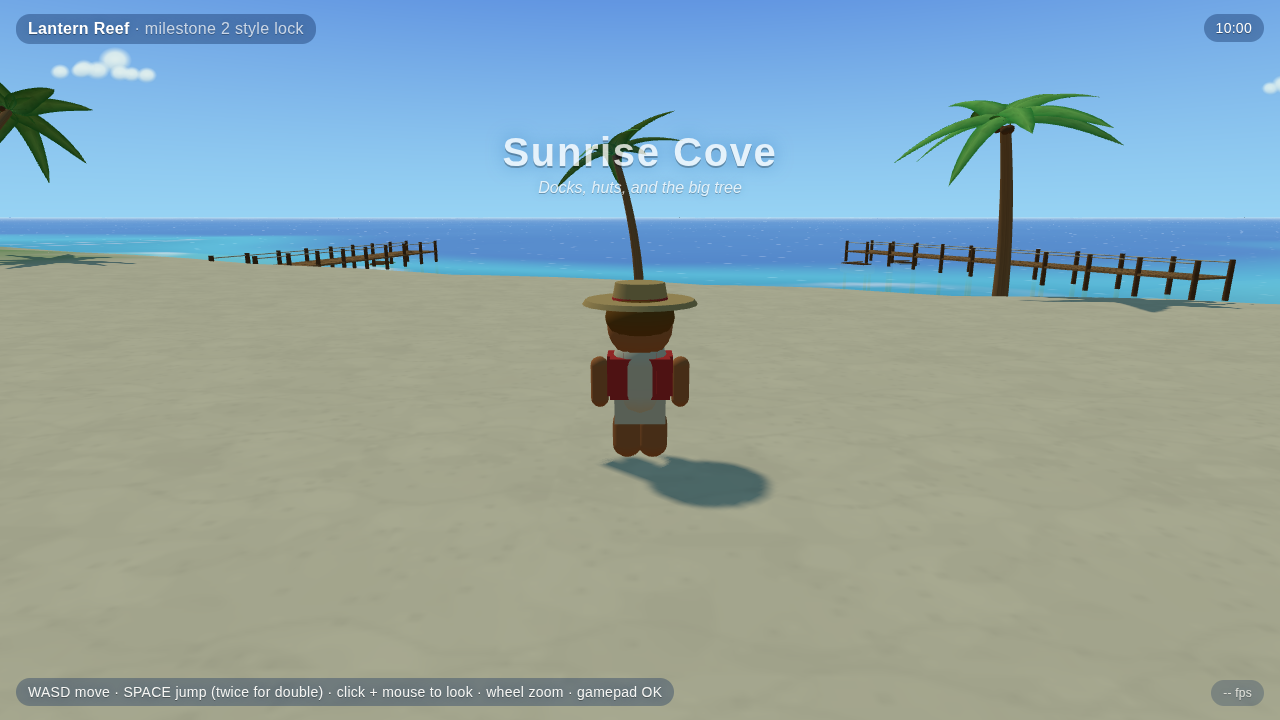
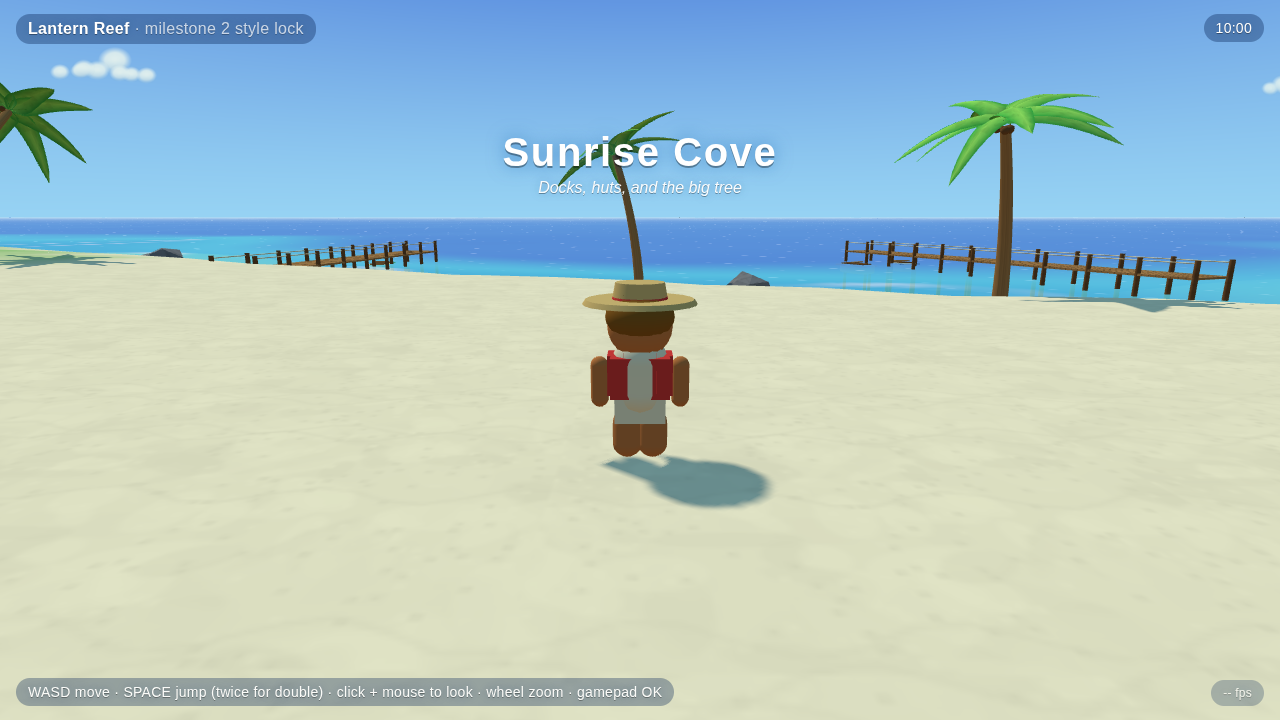
More greenery and more vibrant color
Roughly double the light intensities so palette colors render at full
strength under physically based Lambert shading; deepen the greens and
blues in the palette. Add broadleaf trees on the hills, ferns, flower
patches, vines and leafy clumps on the cliff walls, and denser bushes,
grass tufts, and beach palms.

Claude-Session: https://claude.ai/code/session_01XskDzmhmviZLfBzeCtNsU2

diff --git a/src/world/scatter.js b/src/world/scatter.js
@@ -22,7 +22,7 @@ LR.Scatter = class Scatter {
     };
 
     // Grass tufts: instanced cross-quads.
-    const tufts = sample(2000, (x, y, z, n) => y > 2.7 && n.y > 0.72 && !inZone(x, z, 'town'));
+    const tufts = sample(4500, (x, y, z, n) => y > 2.7 && n.y > 0.72 && !inZone(x, z, 'town'));
     const quad = new THREE.PlaneGeometry(1.2, 0.9); quad.translate(0, 0.42, 0);
     const cross = LR.Geo.merge([{ geometry: quad }, { geometry: quad, rotation: new THREE.Euler(0, Math.PI / 2, 0) }]);
     const tuftMat = new THREE.MeshLambertMaterial({ map: LR.Textures.tuft(), transparent: true, alphaTest: 0.45, side: THREE.DoubleSide });
@@ -37,9 +37,9 @@ LR.Scatter = class Scatter {
     this.group.add(inst);
 
     // Bushes.
-    const bushes = sample(90, (x, y, z, n) => y > 2.8 && n.y > 0.8 && !inZone(x, z, 'town'));
-    const bushPieces = bushes.map((b, i) => ({ geometry: LR.Props.bush(0.9 + rnd() * 1.3, 900 + i), position: new THREE.Vector3(b.x, b.y - 0.2, b.z),
-      color: new THREE.Color(P.grassLight).lerp(new THREE.Color(P.frondDark), rnd() * 0.7) }));
+    const bushes = sample(260, (x, y, z, n) => y > 2.6 && n.y > 0.78 && !inZone(x, z, 'town'));
+    const bushPieces = bushes.map((b, i) => ({ geometry: LR.Props.bush(0.9 + rnd() * 1.6, 900 + i), position: new THREE.Vector3(b.x, b.y - 0.2, b.z),
+      color: new THREE.Color(P.leafBroad).lerp(new THREE.Color(rnd() < 0.5 ? P.frondLight : P.grassDark), rnd() * 0.6) }));
     const bushMesh = new THREE.Mesh(LR.Geo.merge(bushPieces), LR.Materials.painted('leaf', 0xffffff, { vertexColors: true, repeat: [2, 2] }));
     bushMesh.castShadow = true; this.group.add(bushMesh);
 
@@ -57,15 +57,67 @@ LR.Scatter = class Scatter {
     const rockMesh = new THREE.Mesh(LR.Geo.merge(rockPieces), LR.Materials.painted('rock', 0xffffff, { vertexColors: true, flatShading: true, repeat: [1, 1] }));
     rockMesh.castShadow = rockMesh.receiveShadow = true; this.group.add(rockMesh);
 
+    // Broadleaf trees on the grassy hills: trunks in one mesh, canopies in another.
+    const treeSpots = [];
+    const trees = sample(150, (x, y, z, n) => {
+      if (y < 3.2 || n.y < 0.74 || inZone(x, z, 'town') || inZone(x, z, 'cove')) return false;
+      for (const q of treeSpots) if (Math.hypot(q.x - x, q.z - z) < 9) return false;
+      treeSpots.push({ x, z }); return true;
+    });
+    const trunkPieces = [], leafPieces = [];
+    trees.forEach((t, i) => {
+      const b = LR.Props.broadleafPieces(t.x, t.y, t.z, 2000 + i);
+      trunkPieces.push(...b.trunk); leafPieces.push(...b.leaves);
+      physics.addCylinder({ x: t.x, z: t.z, r: 0.45, y0: t.y - 1, y1: t.y + b.h - 1 });
+    });
+    const trunks = new THREE.Mesh(LR.Geo.merge(trunkPieces), LR.Materials.painted('bark', 0x8A6A4A, { repeat: [1, 3] }));
+    trunks.castShadow = true; this.group.add(trunks);
+    const canopies = new THREE.Mesh(LR.Geo.merge(leafPieces), LR.Materials.painted('leaf', 0xffffff, { vertexColors: true, repeat: [2, 2] }));
+    canopies.castShadow = true; this.group.add(canopies);
+
+    // Ferns: under the tree line, at cliff feet, in the shade of the cove.
+    const ferns = sample(220, (x, y, z, n) => y > 1.6 && y < 9 && n.y > 0.7 && !inZone(x, z, 'town'));
+    const fernPieces = [];
+    ferns.forEach((f, i) => fernPieces.push(...LR.Props.fernPieces(f.x, f.y, f.z, 3000 + i)));
+    const fernMesh = new THREE.Mesh(LR.Geo.merge(fernPieces), LR.Materials.painted('leaf', 0xffffff, { vertexColors: true, side: THREE.DoubleSide }));
+    this.group.add(fernMesh);
+
+    // Flowers: instanced petals in four colors, in patches on the low grass.
+    const flowerSpots = sample(70, (x, y, z, n) => y > 2.6 && y < 12 && n.y > 0.8 && !inZone(x, z, 'town'));
+    const petals = [];
+    for (const f of flowerSpots) for (let k = 0; k < 12; k++) {
+      const a = rnd() * Math.PI * 2, d = rnd() * 4.5, x = f.x + Math.cos(a) * d, z = f.z + Math.sin(a) * d;
+      petals.push({ x, y: terrain.height(x, z), z, c: [P.flowerRed, P.flowerYellow, P.flowerPink, P.flowerWhite][Math.floor(rnd() * 4)] });
+    }
+    const petalGeo = new THREE.PlaneGeometry(0.5, 0.5); petalGeo.rotateX(-Math.PI / 2); petalGeo.translate(0, 0.28, 0);
+    const stemGeo = new THREE.PlaneGeometry(0.06, 0.3); stemGeo.translate(0, 0.14, 0);
+    const petalMesh = new THREE.InstancedMesh(petalGeo, new THREE.MeshLambertMaterial({ map: LR.Textures.flower(), transparent: true, alphaTest: 0.4, side: THREE.DoubleSide }), petals.length);
+    const col = new THREE.Color();
+    petals.forEach((f, i) => {
+      const k = 0.7 + rnd() * 0.6;
+      e.set(0, rnd() * Math.PI, 0); q.setFromEuler(e); s.set(k, k, k); p.set(f.x, f.y, f.z);
+      petalMesh.setMatrixAt(i, m.compose(p, q, s)); petalMesh.setColorAt(i, col.setHex(f.c));
+    });
+    petalMesh.instanceMatrix.needsUpdate = true; petalMesh.instanceColor.needsUpdate = true;
+    this.group.add(petalMesh);
+
+    // Leafy clumps clinging to the cliff walls and ledges.
+    const clumpSpots = sample(160, (x, y, z, n) => y > 3 && n.y < 0.6);
+    const clumpPieces = clumpSpots.map((c, i) => { physics.groundNormal(c.x, c.z, n); const k = 0.8 + rnd() * 1.4;
+      return { geometry: LR.Props.bush(k, 5000 + i), position: new THREE.Vector3(c.x + n.x * k * 0.7, c.y + n.y * k * 0.5, c.z + n.z * k * 0.7),
+        color: new THREE.Color(P.leafBroad).lerp(new THREE.Color(P.frondLight), rnd() * 0.5) }; });
+    const clumpMesh = new THREE.Mesh(LR.Geo.merge(clumpPieces), LR.Materials.painted('leaf', 0xffffff, { vertexColors: true, repeat: [2, 2] }));
+    clumpMesh.castShadow = true; this.group.add(clumpMesh);
+
     // Palms along the beaches, spaced out.
     const placed = [];
     // Palms stand where the sand meets the grass: on sand, with grass within ~9 m.
-    const palms = sample(90, (x, y, z, n) => {
+    const palms = sample(130, (x, y, z, n) => {
       if (y < 1.2 || y > 3.2 || n.y < 0.8 || inZone(x, z, 'town')) return false;
       let nearGrass = false;
       for (let a = 0; a < 6; a++) if (terrain.height(x + Math.cos(a) * 9, z + Math.sin(a) * 9) > 3.2) nearGrass = true;
       if (!nearGrass) return false;
-      for (const q of placed) if (Math.hypot(q.x - x, q.z - z) < 9) return false;
+      for (const q of placed) if (Math.hypot(q.x - x, q.z - z) < 7.5) return false;
       placed.push({ x, z }); return true;
     });
     palms.forEach((t, i) => {

diff --git a/src/data/daycycle.js b/src/data/daycycle.js
@@ -12,14 +12,14 @@ LR.DAY = {
     { from: 5.5,  to: 7.5,  minutes: 2.5 },  // sunrise
   ],
   keys: [
-    { h: 0.0,  zenith: 0x060A2A, horizon: 0x18244F, sun: 0x8FA4E6, sunI: 0.28, hemiSky: 0x1C2A5E, hemiGround: 0x0B0E1C, hemiI: 0.35, fog: 0x18244F },
-    { h: 5.0,  zenith: 0x141A4A, horizon: 0x6E4C7E, sun: 0xD08A9A, sunI: 0.40, hemiSky: 0x3A3A6A, hemiGround: 0x1A1420, hemiI: 0.45, fog: 0x6E4C7E },
-    { h: 6.5,  zenith: 0x3D6FD6, horizon: 0xFFB07A, sun: 0xFFD2A0, sunI: 1.05, hemiSky: 0x9BB8F0, hemiGround: 0x8A6A4A, hemiI: 0.65, fog: 0xFFC79A },
-    { h: 8.5,  zenith: 0x1E5BD6, horizon: 0x9BD8F5, sun: 0xFFF4D6, sunI: 1.30, hemiSky: 0x9BD8F5, hemiGround: 0xC9B48A, hemiI: 0.75, fog: 0xA9DDF5 },
-    { h: 16.5, zenith: 0x1E5BD6, horizon: 0x9BD8F5, sun: 0xFFF4D6, sunI: 1.30, hemiSky: 0x9BD8F5, hemiGround: 0xC9B48A, hemiI: 0.75, fog: 0xA9DDF5 },
-    { h: 18.0, zenith: 0x2C4FC0, horizon: 0xFF9A5A, sun: 0xFFB070, sunI: 1.10, hemiSky: 0xE0A0A0, hemiGround: 0x8A5A3A, hemiI: 0.62, fog: 0xFFB08A },
-    { h: 19.0, zenith: 0x1A2570, horizon: 0xD9628A, sun: 0xE08A9A, sunI: 0.60, hemiSky: 0x7A5A9A, hemiGround: 0x3A2A3A, hemiI: 0.5,  fog: 0xC96C8E },
-    { h: 20.0, zenith: 0x080D33, horizon: 0x1E2A5C, sun: 0x8FA4E6, sunI: 0.28, hemiSky: 0x1C2A5E, hemiGround: 0x0B0E1C, hemiI: 0.35, fog: 0x1E2A5C },
-    { h: 24.0, zenith: 0x060A2A, horizon: 0x18244F, sun: 0x8FA4E6, sunI: 0.28, hemiSky: 0x1C2A5E, hemiGround: 0x0B0E1C, hemiI: 0.35, fog: 0x18244F },
+    { h: 0.0,  zenith: 0x060A2A, horizon: 0x18244F, sun: 0x8FA4E6, sunI: 0.45, hemiSky: 0x1C2A5E, hemiGround: 0x0B0E1C, hemiI: 0.66, fog: 0x18244F },
+    { h: 5.0,  zenith: 0x141A4A, horizon: 0x6E4C7E, sun: 0xD08A9A, sunI: 0.64, hemiSky: 0x3A3A6A, hemiGround: 0x1A1420, hemiI: 0.85, fog: 0x6E4C7E },
+    { h: 6.5,  zenith: 0x3D6FD6, horizon: 0xFFB07A, sun: 0xFFD2A0, sunI: 1.94, hemiSky: 0x9BB8F0, hemiGround: 0x8A6A4A, hemiI: 1.23, fog: 0xFFC79A },
+    { h: 8.5,  zenith: 0x1E5BD6, horizon: 0x9BD8F5, sun: 0xFFF4D6, sunI: 2.41, hemiSky: 0x9BD8F5, hemiGround: 0xC9B48A, hemiI: 1.42, fog: 0xA9DDF5 },
+    { h: 16.5, zenith: 0x1E5BD6, horizon: 0x9BD8F5, sun: 0xFFF4D6, sunI: 2.41, hemiSky: 0x9BD8F5, hemiGround: 0xC9B48A, hemiI: 1.42, fog: 0xA9DDF5 },
+    { h: 18.0, zenith: 0x2C4FC0, horizon: 0xFF9A5A, sun: 0xFFB070, sunI: 2.04, hemiSky: 0xE0A0A0, hemiGround: 0x8A5A3A, hemiI: 1.18, fog: 0xFFB08A },
+    { h: 19.0, zenith: 0x1A2570, horizon: 0xD9628A, sun: 0xE08A9A, sunI: 0.96, hemiSky: 0x7A5A9A, hemiGround: 0x3A2A3A, hemiI: 0.95,  fog: 0xC96C8E },
+    { h: 20.0, zenith: 0x080D33, horizon: 0x1E2A5C, sun: 0x8FA4E6, sunI: 0.45, hemiSky: 0x1C2A5E, hemiGround: 0x0B0E1C, hemiI: 0.66, fog: 0x1E2A5C },
+    { h: 24.0, zenith: 0x060A2A, horizon: 0x18244F, sun: 0x8FA4E6, sunI: 0.45, hemiSky: 0x1C2A5E, hemiGround: 0x0B0E1C, hemiI: 0.66, fog: 0x18244F },
   ],
 };

diff --git a/src/world/props/nature.js b/src/world/props/nature.js
@@ -17,6 +17,48 @@ LR.Props.bush = function (r, seed) {
   return g;
 };
 
+// Round broadleaf tree: a short tapered trunk and two or three leaf blobs.
+// Returns pieces for merging: { trunk: [...], leaves: [...] }.
+LR.Props.broadleafPieces = function (x, y, z, seed) {
+  const P = LR.PALETTE, rnd = LR.Seeded.rng(seed);
+  const h = 4.5 + rnd() * 3.5, lean = (rnd() - 0.5) * 0.8;
+  const curve = new THREE.CatmullRomCurve3([new THREE.Vector3(x, y - 0.3, z), new THREE.Vector3(x + lean * 0.3, y + h * 0.5, z), new THREE.Vector3(x + lean, y + h, z + lean * 0.5)]);
+  const trunk = [{ geometry: LR.Geo.taperedTube(curve, 0.42, 0.22, 4, 6) }];
+  const leaves = [];
+  const n = 2 + Math.floor(rnd() * 2), R = 2.4 + rnd() * 1.6;
+  const base = new THREE.Color(P.leafBroad), hi = new THREE.Color(P.frondLight), lo = new THREE.Color(P.grassDark);
+  for (let i = 0; i < n; i++) {
+    const a = rnd() * Math.PI * 2, d = i === 0 ? 0 : R * 0.55;
+    leaves.push({ geometry: LR.Props.bush(R * (i === 0 ? 1 : 0.8), seed * 3 + i),
+      position: new THREE.Vector3(x + lean + Math.cos(a) * d, y + h + R * 0.55 + (i ? -R * 0.25 : 0), z + lean * 0.5 + Math.sin(a) * d),
+      color: base.clone().lerp(rnd() < 0.5 ? hi : lo, rnd() * 0.5) });
+  }
+  return { trunk, leaves, h };
+};
+
+// Fern: a rosette of small upright fronds. Returns merge pieces.
+LR.Props.fernPieces = function (x, y, z, seed) {
+  const rnd = LR.Seeded.rng(seed), out = [], n = 6 + Math.floor(rnd() * 3), k = 0.7 + rnd() * 0.6;
+  for (let i = 0; i < n; i++) {
+    out.push({ geometry: LR.Props.frondGeometry(1.3 * k, 0.28 * k, 0.9, seed * 17 + i),
+      position: new THREE.Vector3(x, y - 0.05, z), rotation: new THREE.Euler(0, (i / n) * Math.PI * 2 + rnd() * 0.4, 0.95 + rnd() * 0.35, 'YXZ') });
+  }
+  return out;
+};
+
+// Vine: a leafy strip hanging down a cliff face. Returns a merge piece.
+LR.Props.vinePiece = function (x, y, z, nx, nz, len, seed) {
+  const rnd = LR.Seeded.rng(seed);
+  const g = new THREE.PlaneGeometry(1.2 + rnd() * 0.8, len, 1, 4);
+  g.translate(0, -len / 2, 0);
+  const P = g.attributes.position;
+  for (let i = 0; i < P.count; i++) P.setX(i, P.getX(i) + Math.sin(P.getY(i) * 1.7 + seed) * 0.3);   // wiggle
+  const yaw = Math.atan2(nx, nz);
+  // Held well clear of the wall: the mesh is coarser than the analytic surface.
+  return { geometry: g, position: new THREE.Vector3(x + nx * 1.1, y + 0.5, z + nz * 1.1), rotation: new THREE.Euler(0, yaw, 0),
+    color: new THREE.Color(LR.PALETTE.frondDark).lerp(new THREE.Color(LR.PALETTE.frondLight), rnd() * 0.6) };
+};
+
 // Big banyan-like tree: tapered trunk, roots, branches, a canopy of leaf
 // blobs, a plank platform with railing and a small hut, and a spiral of
 // plank steps up the trunk so you can climb to the tree house.

diff --git a/src/render/textures.js b/src/render/textures.js
@@ -50,7 +50,7 @@ LR.Textures = (function () {
     ctx.lineWidth = 1.6; ctx.lineCap = 'round';
     for (let i = 0; i < 900; i++) {
       const x = rnd() * s, y = rnd() * s, h = 3 + rnd() * 6, lean = (rnd() - 0.5) * 3;
-      ctx.strokeStyle = gray(0.7 + rnd() * 0.5, 0.55);
+      ctx.strokeStyle = gray(0.62 + rnd() * 0.6, 0.6);
       wrapped(ctx, s, () => { ctx.beginPath(); ctx.moveTo(x, y); ctx.lineTo(x + lean, y - h); ctx.stroke(); });
     }
   });
@@ -133,6 +133,16 @@ LR.Textures = (function () {
     const t = tex(c); t.wrapS = t.wrapT = THREE.ClampToEdgeWrapping;
     return (cache.tuft = t);
   }
+  function flower() {
+    if (cache.flower) return cache.flower;
+    const s = 32, c = canvas(s), ctx = c.getContext('2d');
+    ctx.clearRect(0, 0, s, s);
+    ctx.fillStyle = '#ffffff';
+    for (let i = 0; i < 5; i++) { const a = (i / 5) * Math.PI * 2; ctx.beginPath(); ctx.ellipse(s / 2 + Math.cos(a) * 8, s / 2 + Math.sin(a) * 8, 7, 5, a, 0, Math.PI * 2); ctx.fill(); }
+    ctx.fillStyle = '#ffe680'; ctx.beginPath(); ctx.arc(s / 2, s / 2, 4, 0, Math.PI * 2); ctx.fill();
+    const t = tex(c); t.wrapS = t.wrapT = THREE.ClampToEdgeWrapping;
+    return (cache.flower = t);
+  }
   function sunGlint() {
     if (cache.glint) return cache.glint;
     const s = 64, c = canvas(s), ctx = c.getContext('2d');
@@ -143,5 +153,5 @@ LR.Textures = (function () {
     return (cache.glint = t);
   }
 
-  return { sand, grass, rock, planks, thatch, bark, leaf, wall, cloudPuff, waterfall, tuft, sunGlint };
+  return { sand, grass, rock, planks, thatch, bark, leaf, wall, cloudPuff, waterfall, tuft, flower, sunGlint };
 })();

diff --git a/src/data/palette.js b/src/data/palette.js
@@ -2,15 +2,16 @@
 // Everything that picks a color in the game picks it from here.
 window.LR = window.LR || {};
 LR.PALETTE = {
-  skyZenith: 0x1E5BD6, skyHorizon: 0x9BD8F5,
+  skyZenith: 0x1A5CEC, skyHorizon: 0x9BD8F5,
   cloud: 0xFFFFFF, cloudShade: 0xBFD8F0,
-  waterShallow: 0x4FE3E0, waterDeep: 0x1247B8, foam: 0xF6FFFF,
-  sandWet: 0xE4CFA0, sandDry: 0xFBF0D2,
-  grassLight: 0x5DC24E, grassDark: 0x2E8A3A,
-  frondDark: 0x3FAE4A, frondLight: 0x8CDD6A,
+  waterShallow: 0x3FEBE4, waterDeep: 0x134FCC, foam: 0xF6FFFF,
+  sandWet: 0xEAD4A6, sandDry: 0xFFF4D8,
+  grassLight: 0x66D648, grassDark: 0x2F9E3C,
+  frondDark: 0x3DB74C, frondLight: 0x9BE868,
   trunk: 0xB08050, driftwood: 0x7A5333,
   rockLight: 0x8E8E96, rockDark: 0x5A5A66,
-  thatch: 0xD9B36A,
+  thatch: 0xE0B868,
+  flowerRed: 0xFF4D5E, flowerYellow: 0xFFD23F, flowerPink: 0xFF8AD0, flowerWhite: 0xFFFFFF, leafBroad: 0x4CC94A,
   wall1: 0xFFF3E0, wall2: 0xF9D5B5, wall3: 0xCFE9F3, wall4: 0xF6E7A1,
   roofRed: 0xD9583A, roofBlue: 0x3D7AC4,
   sunlight: 0xFFF4D6, shadow: 0x6D8FC9,

diff --git a/docs/PLAN.md b/docs/PLAN.md
@@ -71,21 +71,23 @@ that are filtered smooth. Concretely:
 
 | Role | Color | Notes |
 |---|---|---|
-| Sky zenith | `#1E5BD6` | deep cobalt at the top |
+| Sky zenith | `#1A5CEC` | deep cobalt at the top |
 | Sky horizon | `#9BD8F5` | pale cyan where it meets the sea |
 | Cloud | `#FFFFFF` shaded to `#BFD8F0` | fluffy billboard clusters |
-| Shallow water | `#4FE3E0` | the "you can see the sand" color |
-| Deep water | `#1247B8` | cobalt, not navy |
+| Shallow water | `#3FEBE4` | the "you can see the sand" color |
+| Deep water | `#134FCC` | cobalt, not navy |
 | Foam / wave crest | `#F6FFFF` | |
-| Wet sand | `#E4CFA0` | |
-| Dry sand | `#FBF0D2` | almost white in sun |
-| Grass | `#5DC24E` → `#2E8A3A` | vivid, two-tone painted |
-| Palm frond | `#3FAE4A` / `#8CDD6A` | |
+| Wet sand | `#EAD4A6` | |
+| Dry sand | `#FFF4D8` | almost white in sun |
+| Grass | `#66D648` → `#2F9E3C` | vivid, two-tone painted |
+| Palm frond | `#3DB74C` / `#9BE868` | |
 | Palm trunk / driftwood | `#B08050` / `#7A5333` | |
 | Rock | `#8E8E96` → `#5A5A66` | cool gray, green mossy tops |
-| Thatch | `#D9B36A` | |
+| Thatch | `#E0B868` | |
 | Town walls | `#FFF3E0`, `#F9D5B5`, `#CFE9F3`, `#F6E7A1` | pastel stack |
 | Roof tiles | `#D9583A`, `#3D7AC4` | terracotta and blue |
+| Broadleaf canopy | `#4CC94A` | hill trees, bushes |
+| Flowers | `#FF4D5E`, `#FFD23F`, `#FF8AD0`, `#FFFFFF` | patches on the low grass |
 | Sunlight | `#FFF4D6` | warm white |
 | Shadow tint | `#6D8FC9` | bluish, never black |
 
